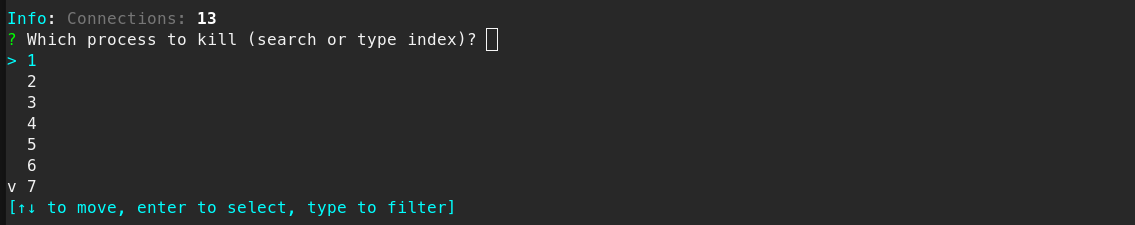
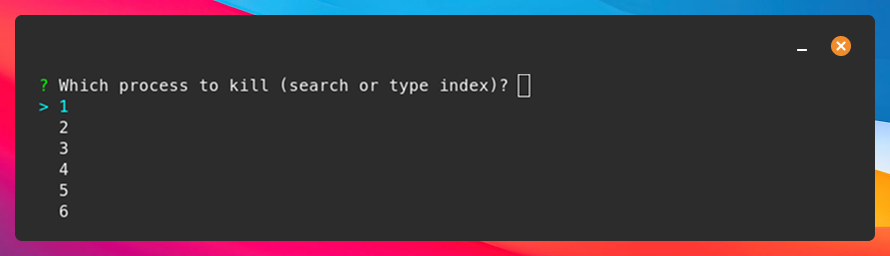
update readme images

diff --git a/README.md b/README.md
@@ -1,9 +1,10 @@
 <p align="center">
-  <img src="./images/somo-logo.png" />
+  <img style="width: 250px" src="./images/somo-logo.png" />
 </p>
 
 
 ### A human-friendly alternative to netstat for socket and port monitoring on Linux.
+
 
 ## ✨ Features:
 - pleasing to the eye thanks to a nice table-view
@@ -68,14 +69,13 @@ You can use the following flags to filter based on different attributes:
 ### Compact table view:
 To get a smaller, more compact table use the ``--compact, -c`` flag.
 
+![compact-example](./images/somo-compact-example.png)
+
+
 ### Process killing:
 With the ``--kill, -k`` flag you can choose to kill a process after inspecting the connections using an interactive selection option.
-![kill-example](./images/somo-kill-example.png)
 
-You can of course also apply filters and the kill-flag at the same time:
-```sh
-somo --program postgres -k
-```
+![kill-example](./images/somo-kill-example.png)
 
 ---
 
